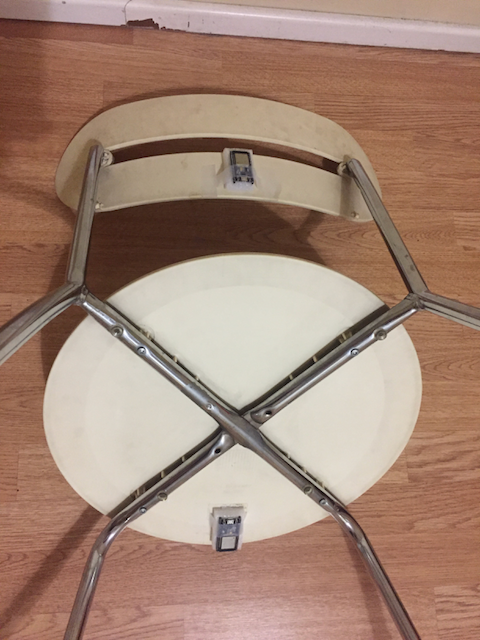
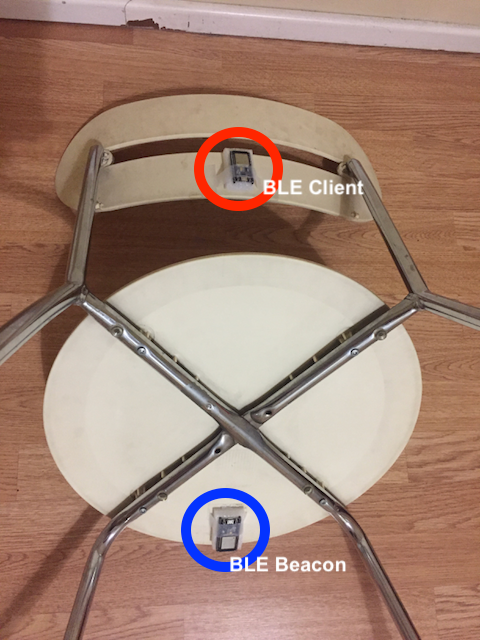
modified initial setup images in architecture chapter for proximity post

Changed region(s): [[0.375, 0.75, 0.7188, 0.9062], [0.4062, 0.1875, 0.7812, 0.3438]]

diff --git a/_posts/2018-01-12-proximity.md b/_posts/2018-01-12-proximity.md
@@ -30,9 +30,8 @@ This is just a brief summary of the capabilities of the micro controller. The im
 
 The development boards have USB ports that can be used to power the micro controller. Each of the components used are powered with power banks using this port. They are attached to the chair using simple double sided tape. For the initial setup both beacons are placed one in front of the other underneath the chair. As shown in the following figures:
 
-<figure class="third">
+<figure class="half">
   <img src="/images/chair1.png">
-  <img src="/images/client_chair1.png">
   <img src="/images/chair1_1_beacon.png">
   <figcaption>Initial setup</figcaption>
 </figure>
